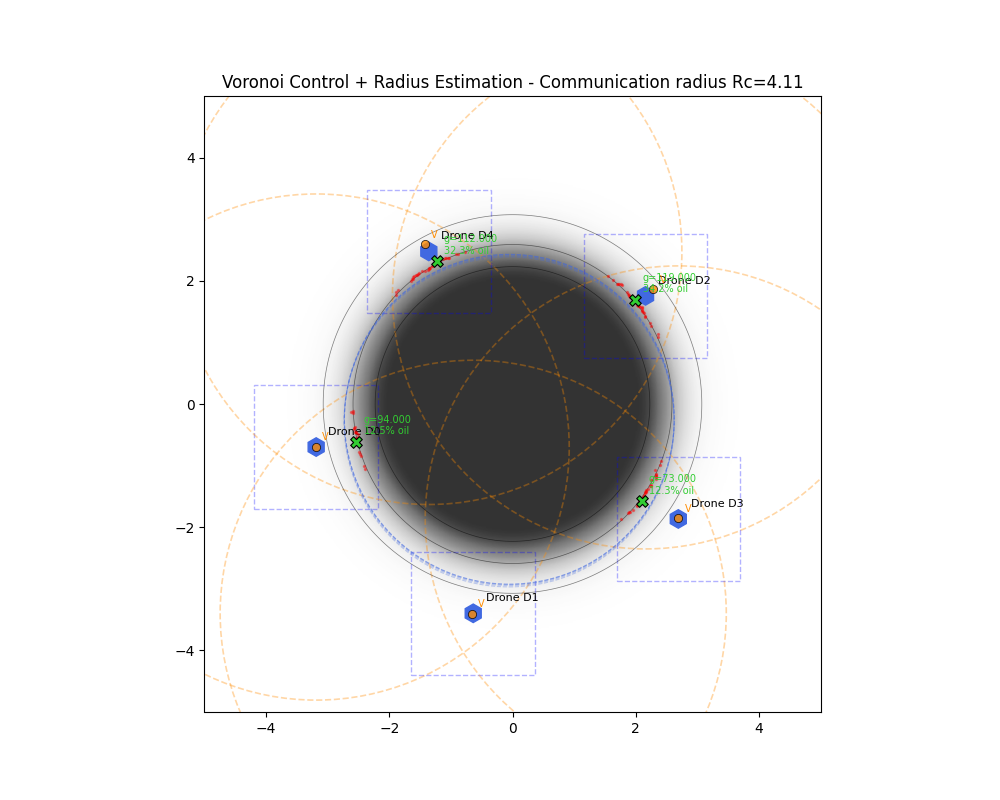
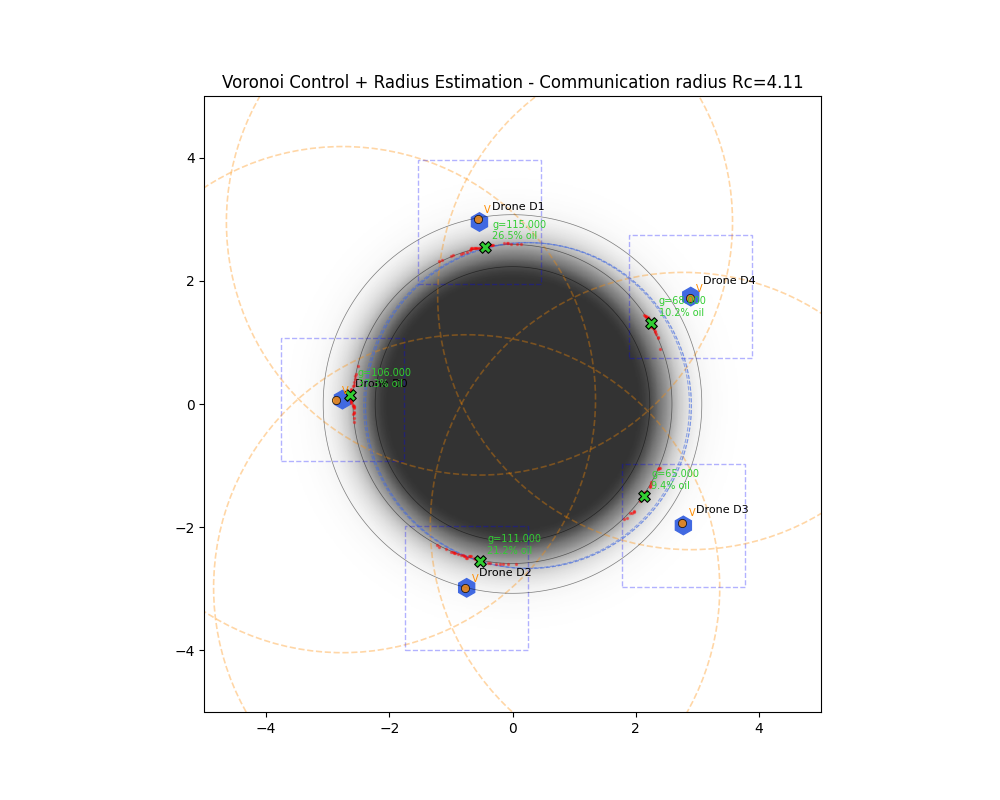
added plot for (cx, cy)

diff --git a/main.py b/main.py
@@ -106,31 +106,34 @@ def run_multi_drone_simulation(
     
     # Plot convergence by measurement index, including every consensus iteration.
     measurement_count = len(engine.measurement_consensus_history)
-    fig, ax = plt.subplots(figsize=(13, 6))
+    fig, axes = plt.subplots(3, 1, figsize=(13, 12), sharex=True)
+    ax_cx, ax_cy, ax_r = axes
     color_cycle = plt.cm.tab10(np.linspace(0, 1, max(1, len(engine.drones))))
 
     initial_r0_post = [engine.estimates_history[f"D{i}"]["r_fused"][0] for i in range(len(engine.drones))]
     final_r0_post = [engine.estimates_history[f"D{i}"]["r_fused"][-1] for i in range(len(engine.drones))]
-    all_end_values = []
-
+    
     for measure_idx, cycle_trace in enumerate(engine.measurement_consensus_history, start=1):
         x_values = np.linspace(measure_idx - 1.0, measure_idx, len(next(iter(cycle_trace.values()))))
         for idx, drone in enumerate(engine.drones):
             drone_id = drone.drone_id
+            # cycle_trace[drone_id] is a list of [cx, cy, r] arrays
             y_values = np.asarray(cycle_trace[drone_id], dtype=float)
-            all_end_values.append(y_values[-1])
-            ax.plot(
-                x_values,
-                y_values,
+            
+            common_params = dict(
                 color=color_cycle[idx % len(color_cycle)],
-                linewidth=1.8,
-                marker="o",
-                markersize=3,
-                alpha=0.9,
-                label=f"{drone_id}" if measure_idx == 1 else None,
+                linewidth=1.8, marker="o", markersize=3, alpha=0.9,
+                label=f"{drone_id}" if measure_idx == 1 else None
             )
+            
+            ax_cx.plot(x_values, y_values[:, 0], **common_params)
+            ax_cy.plot(x_values, y_values[:, 1], **common_params)
+            ax_r.plot(x_values, y_values[:, 2], **common_params)
 
-    ax.axhline(y=spill.r0, color="black", linestyle="--", linewidth=2.5, label="True r0")
+    # Add ground truth horizontal lines
+    ax_cx.axhline(y=spill.x0, color="black", linestyle="--", linewidth=2.5, label="True x0")
+    ax_cy.axhline(y=spill.y0, color="black", linestyle="--", linewidth=2.5, label="True y0")
+    ax_r.axhline(y=spill.r0, color="black", linestyle="--", linewidth=2.5, label="True r0")
 
     mean_r0 = np.mean(final_r0_post)
     std_r0 = np.std(final_r0_post)
@@ -148,25 +151,22 @@ def run_multi_drone_simulation(
     print(f"True r: {spill.r0:.6f}")
     print(f"Error from true r: {abs(mean_r0 - spill.r0):.6f}")
 
-    textstr = f"Mean: {mean_r0:.4f}\nStd: {std_r0:.6f}\nTrue: {spill.r0:.4f}"
-    ax.text(
-        0.02,
-        0.98,
-        textstr,
-        transform=ax.transAxes,
-        fontsize=10,
-        verticalalignment="top",
-        bbox=dict(boxstyle="round", facecolor="wheat", alpha=0.8),
-    )
+    # Titles and labels
+    ax_cx.set_title("Consensus Evolution: Center X (cx)")
+    ax_cx.set_ylabel("cx")
+    ax_cy.set_title("Consensus Evolution: Center Y (cy)")
+    ax_cy.set_ylabel("cy")
+    ax_r.set_title("Consensus Evolution: Radius (r)")
+    ax_r.set_ylabel("radius")
+    
+    for ax in axes:
+        ax.set_xlim(0, measurement_count if measurement_count else 1)
+        ax.set_xticks(np.arange(0, measurement_count + 1, 1))
+        ax.grid(True, alpha=0.3)
+        ax.legend(loc="center left", bbox_to_anchor=(1.02, 0.5), frameon=True)
 
-    ax.set_title("Consensus Evolution Inside Each Measurement Cycle")
-    ax.set_xlabel("Number of measurements + 1")
-    ax.set_ylabel("Radius r0")
-    ax.set_xlim(0, measurement_count if measurement_count else 1)
-    ax.set_xticks(np.arange(0, measurement_count + 1, 1))
-    ax.grid(True, alpha=0.3)
-    ax.legend(loc="center left", bbox_to_anchor=(1.02, 0.5), frameon=True)
-
+    axes[-1].set_xlabel("Number of measurements")
+    
     plt.tight_layout()
     plt.savefig("consensus_convergence.png", bbox_inches="tight")
     print("Consensus convergence plot saved to 'consensus_convergence.png'")

diff --git a/simulation_engine.py b/simulation_engine.py
@@ -161,12 +161,14 @@ class SimulationEngine:
         return np.clip(4.0 * field * (1.0 - field), 0.0, None)
 
     def add_drone(self, drone_id, x, y):
-        # Initialize with random guesses for center and radius instead of ground truth.
-        # Maps are typically [-5, 5], so guesses in [-2, 2] for center 
-        # and [0.5, 2.5] for radius are reasonable deviations.
-        init_cx = float(np.random.uniform(-2.0, 2.0))
-        init_cy = float(np.random.uniform(-2.0, 2.0))
-        init_r = float(np.random.uniform(0.5, 2.5))
+        # Initialize with random guesses for center and radius across the full map extent.
+        xmin, xmax = self.sim_map.xlim
+        ymin, ymax = self.sim_map.ylim
+        
+        init_cx = float(np.random.uniform(xmin, xmax))
+        init_cy = float(np.random.uniform(ymin, ymax))
+        # Radius can range from very small to half the map width
+        init_r = float(np.random.uniform(0.1, 5.0))
 
         drone = Drone(
             drone_id,
@@ -454,8 +456,8 @@ class SimulationEngine:
         for drone in self.drones:
             drone.theta_fused = drone.theta_measured.copy()
 
-        # Trace for visualization of consensus convergence
-        trace = {d.drone_id: [d.theta_fused[2]] for d in self.drones}
+        # Trace for visualization of consensus convergence (storing full theta)
+        trace = {d.drone_id: [d.theta_fused.copy()] for d in self.drones}
 
         for k in range(self.wls_iters):
             new_fused = {}
@@ -481,7 +483,7 @@ class SimulationEngine:
             
             for drone in self.drones:
                 drone.theta_fused = new_fused[drone.drone_id]
-                trace[drone.drone_id].append(drone.theta_fused[2])
+                trace[drone.drone_id].append(drone.theta_fused.copy())
 
         self._current_measure_trace = trace
 
